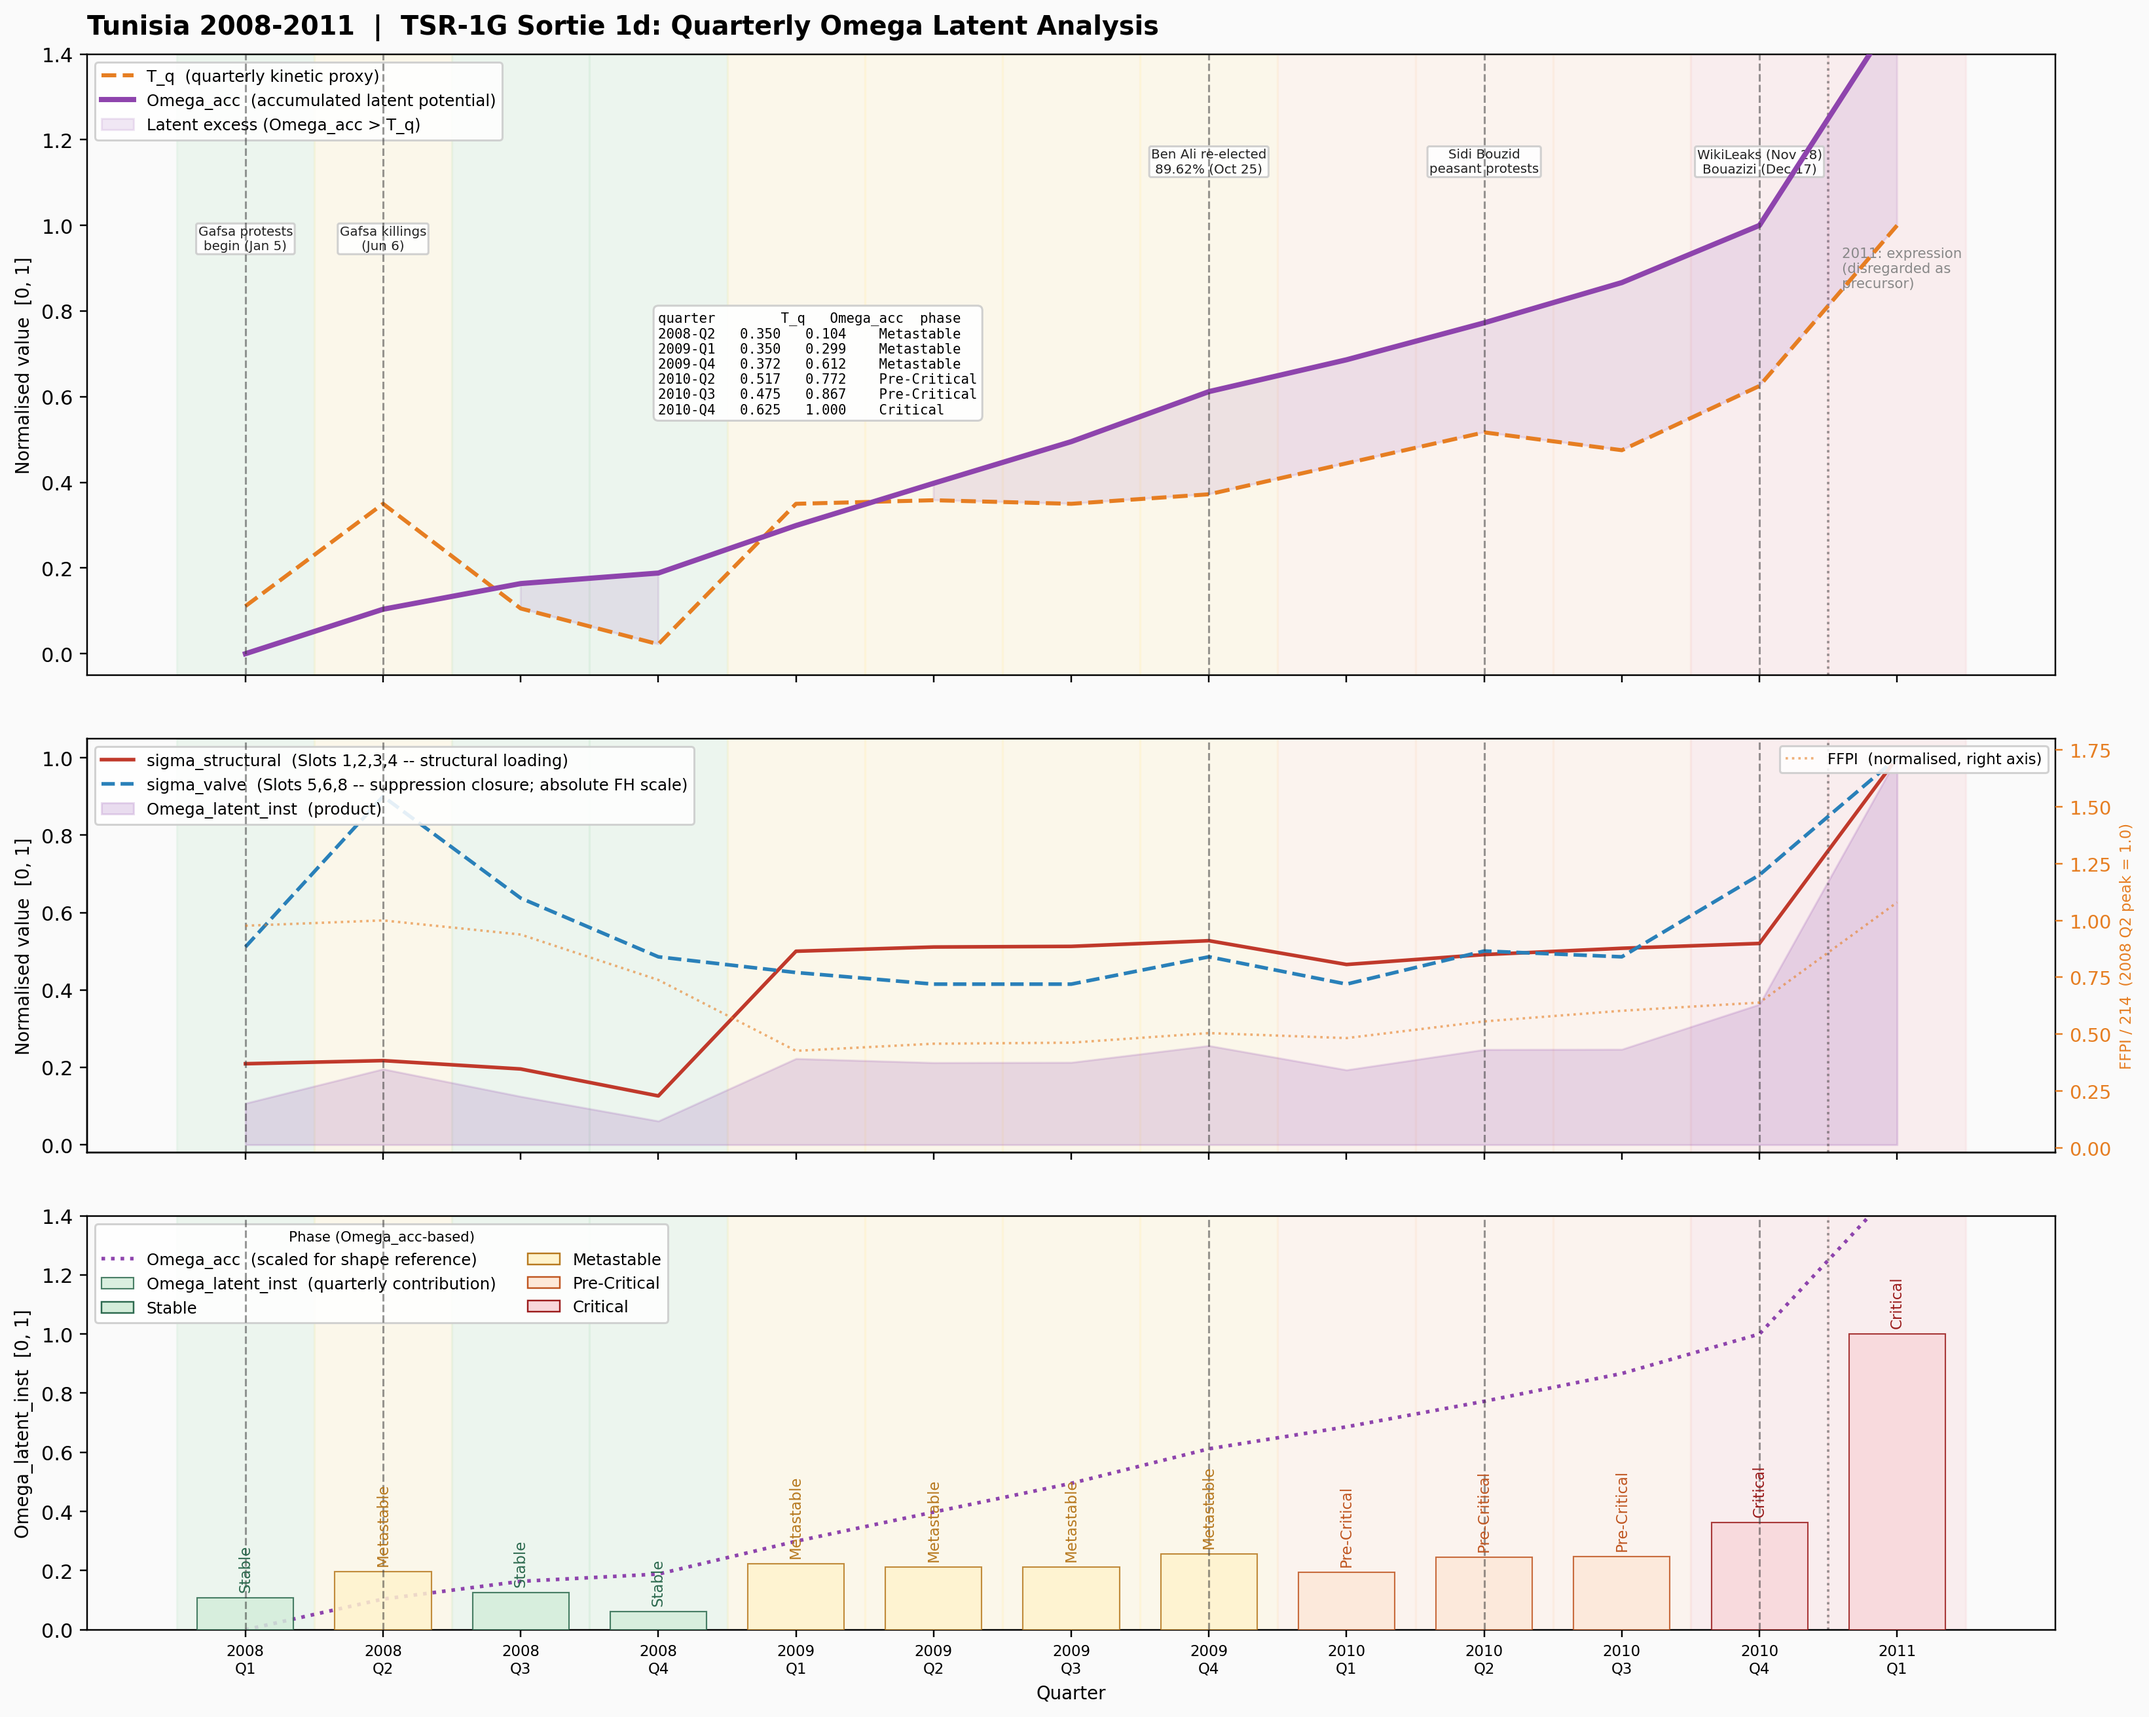
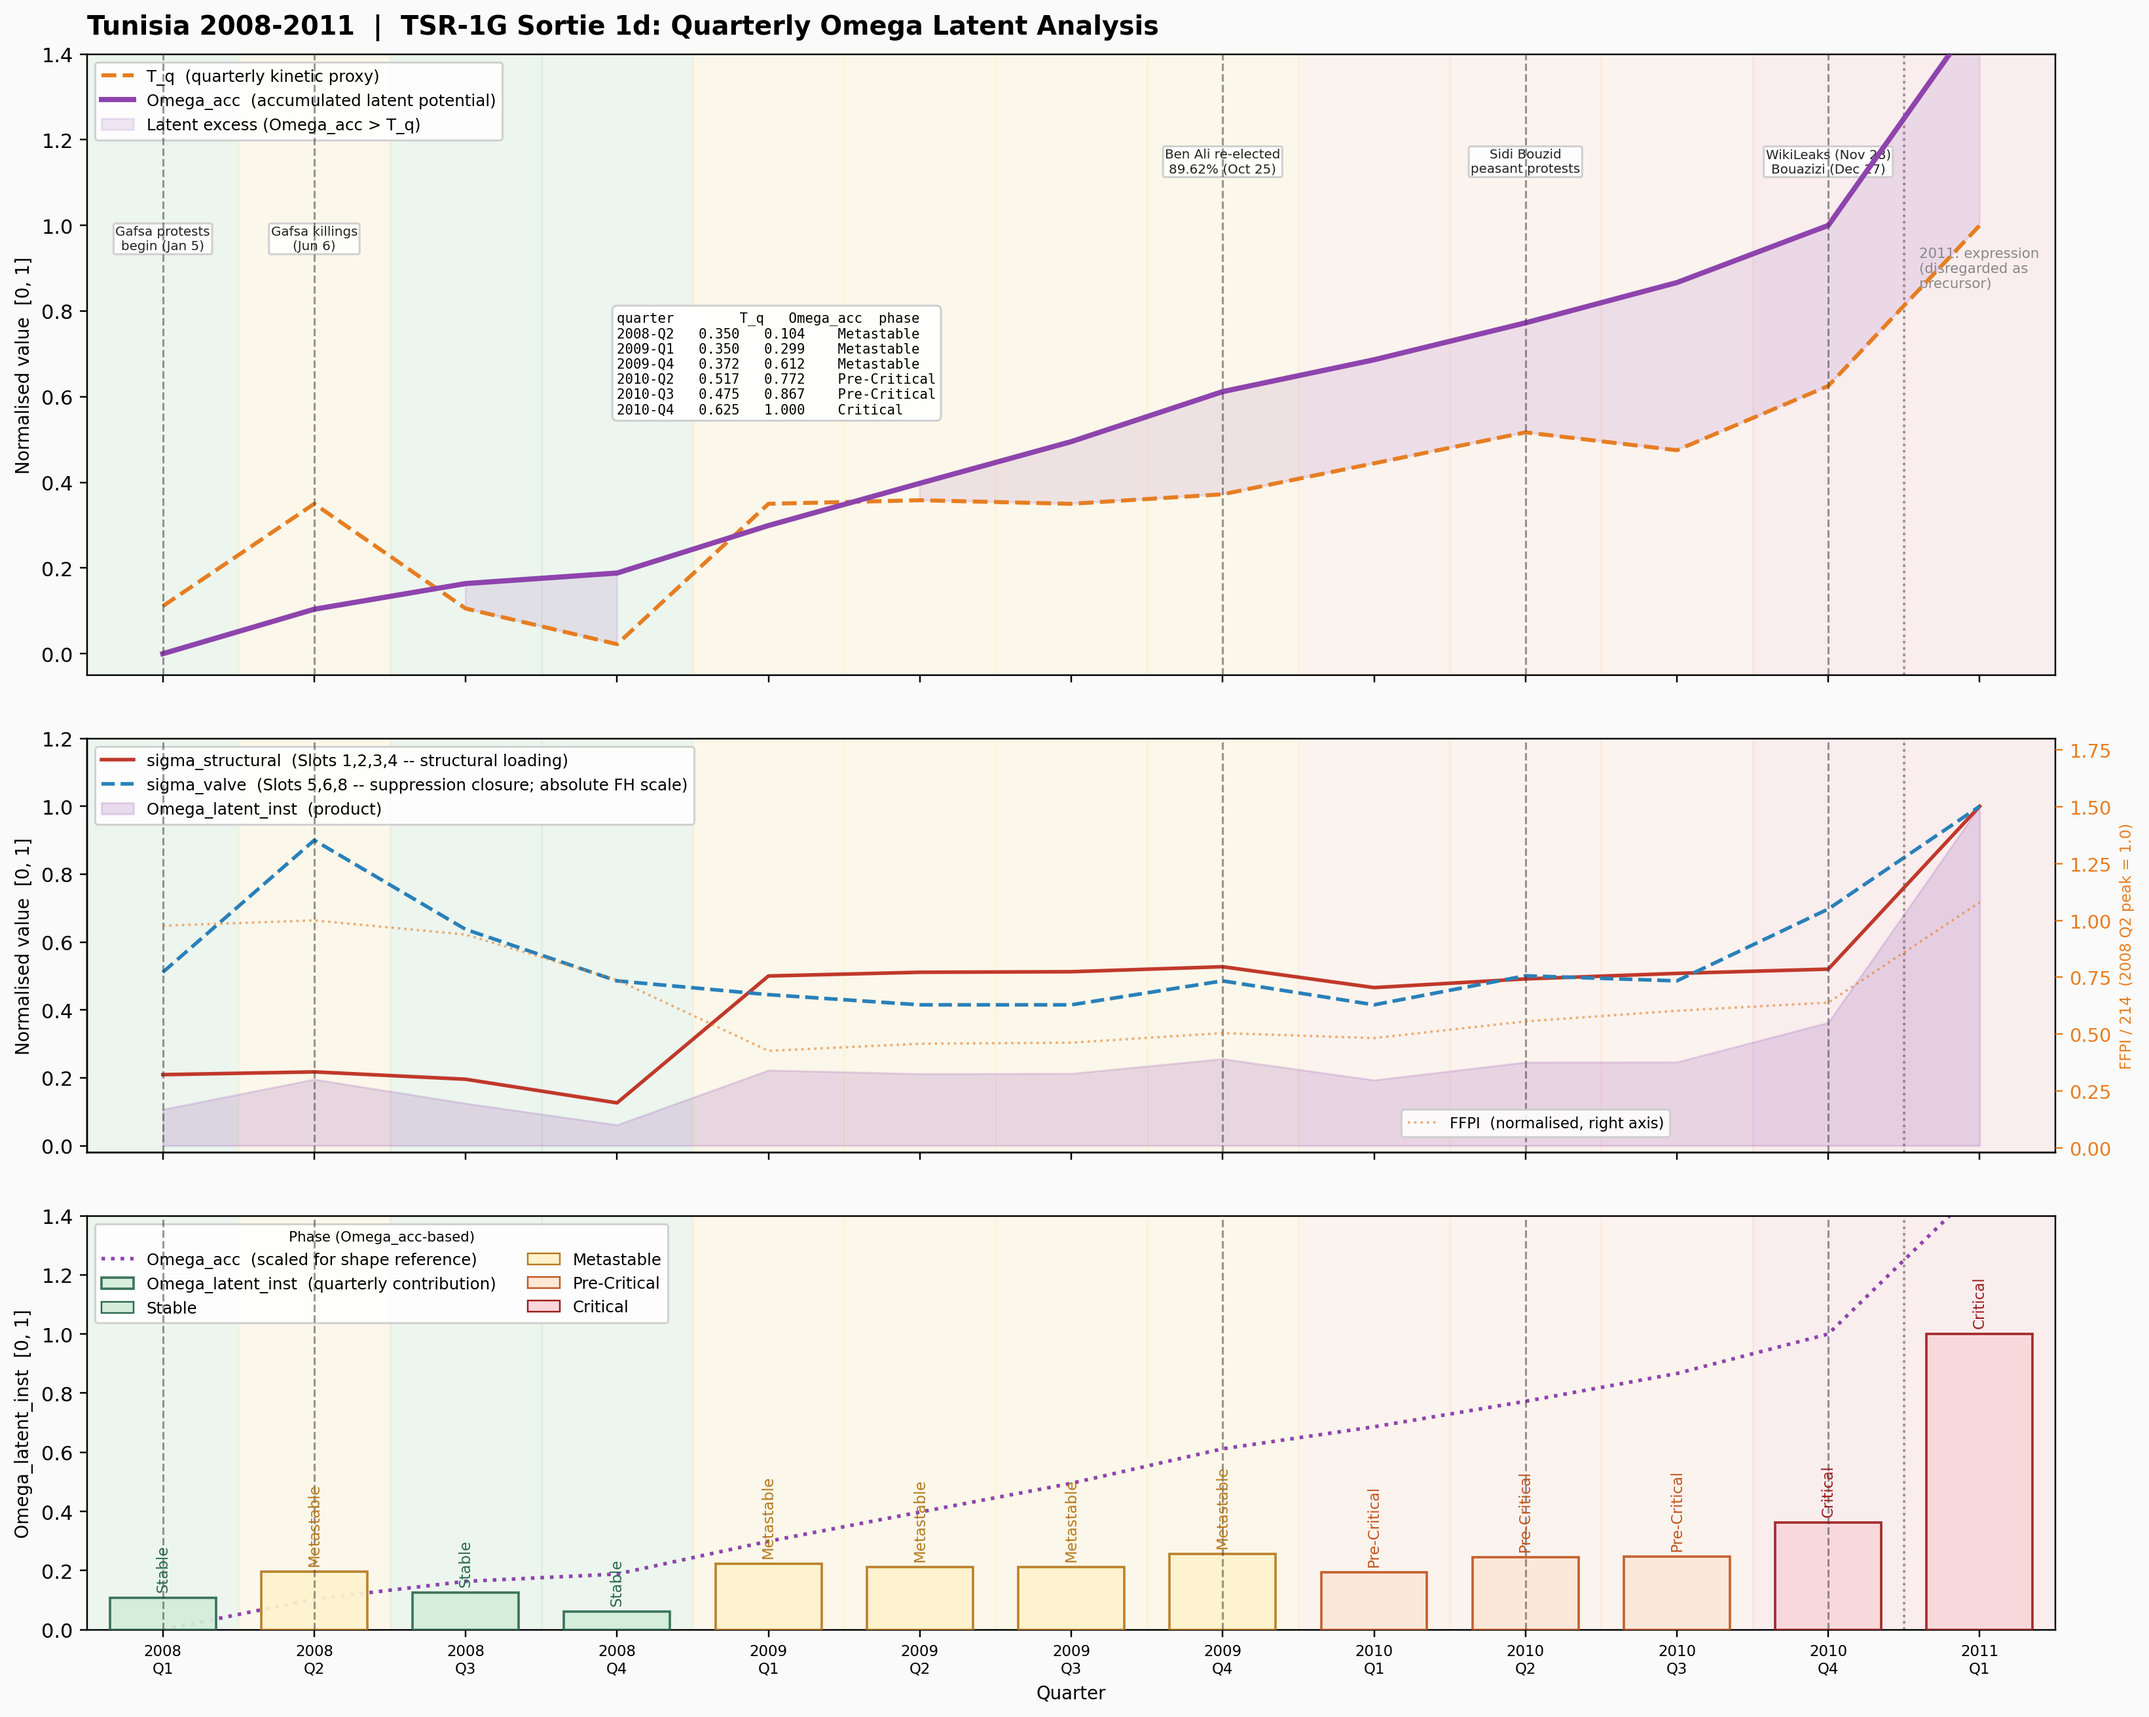
Sortie 1d: HC chart polish -- bolder fills, FFPI visibility, layout fixes
- HC palette: bold near-primary bar fills (Blue 800, Amber 800, Deep Orange 800,
  Red 800) with saturated span backgrounds; FFPI line changed to dark gray
  (#444444) -- amber was invisible against yellow/amber spans
- FFPI legend moved to bottom-right at 2010-Q3 x position (bbox_to_anchor)
- X-axis constrained to exact data range (xlim = -0.5 to n-0.5); removes
  excess whitespace beyond 2011-Q1
- Panel B left y-axis extended to 1.2 to clear legend overlap on sigma_valve

diff --git a/CASES/Tunisia/sortie_1d_quarterly.py b/CASES/Tunisia/sortie_1d_quarterly.py
@@ -284,21 +284,27 @@ STANDARD_CS = dict(
     fig_bg      = '#fafafa',
 )
 
-# High-contrast / colorblind-safe palette (Wong 2011)
-# Black=#000000, Orange=#E69F00, Sky blue=#56B4E9, Bluish green=#009E73,
-# Yellow=#F0E442, Blue=#0072B2, Vermillion=#D55E00, Reddish purple=#CC79A7
+# High-contrast / colorblind-safe palette (Wong 2011 lines + bold fills)
+# Background spans use saturated mid-tones (alpha 0.35 still shows clearly).
+# phase_bar: bold near-primary fills for Panel C bars (alpha 0.92).
 HC_CS = dict(
     phase_bg = {
-        'Stable':       '#D6EAF8',   # light blue
-        'Metastable':   '#FEF9E7',   # light yellow
-        'Pre-Critical': '#FDEBD0',   # light orange
-        'Critical':     '#FADBD8',   # light red
+        'Stable':       '#64B5F6',   # Blue 300 -- saturated span background
+        'Metastable':   '#FFD54F',   # Amber 300
+        'Pre-Critical': '#FFB74D',   # Orange 300
+        'Critical':     '#E57373',   # Red 300
+    },
+    phase_bar = {
+        'Stable':       '#1565C0',   # Blue 800  -- near-primary blue
+        'Metastable':   '#F9A825',   # Amber 800 -- near-primary yellow
+        'Pre-Critical': '#E65100',   # Deep Orange 800 -- near-primary orange
+        'Critical':     '#C62828',   # Red 800   -- near-primary red
     },
     phase_edge = {
-        'Stable':       '#0072B2',   # blue
-        'Metastable':   '#9A7D0A',   # dark amber
-        'Pre-Critical': '#D55E00',   # vermillion
-        'Critical':     '#8B0000',   # dark red
+        'Stable':       '#003c8f',   # Blue 900 (very dark)
+        'Metastable':   '#c67c00',   # dark amber
+        'Pre-Critical': '#8d2400',   # very dark orange
+        'Critical':     '#7f0000',   # maroon
     },
     t_tension   = '#D55E00',         # vermillion -- dashed line
     omega_acc   = '#0072B2',         # blue -- solid line
@@ -306,7 +312,7 @@ HC_CS = dict(
     sig_struct  = '#D55E00',         # vermillion
     sig_valve   = '#009E73',         # bluish green
     latent_fill = '#CC79A7',         # reddish purple
-    ffpi        = '#E69F00',         # amber
+    ffpi        = '#444444',         # dark gray (amber was too close to yellow spans)
     fig_bg      = '#FFFFFF',         # white background for maximum contrast
 )
 
@@ -328,6 +334,10 @@ def make_figure(cs, out_path):
         'axes.spines.top':   False,
         'axes.spines.right': False,
     })
+
+    # Constrain x to exactly the data range
+    for ax in axes:
+        ax.set_xlim(-0.5, n - 0.5)
 
     # Phase background spans
     for xi, q in enumerate(QUARTERS):
@@ -365,7 +375,7 @@ def make_figure(cs, out_path):
     ax.fill_between(xs, 0, df['Omega_latent_inst'], color=cs['latent_fill'], alpha=0.18,
                     label='Omega_latent_inst  (product)')
     ax.axvline(11.5, color='#555555', lw=1.2, ls=':', alpha=0.6)
-    ax.set_ylim(-0.02, 1.05)
+    ax.set_ylim(-0.02, 1.20)
     ax.set_ylabel('Normalised value  [0, 1]', fontsize=9)
     ax.legend(loc='upper left', fontsize=8, framealpha=0.88, edgecolor='#cccccc')
 
@@ -378,14 +388,17 @@ def make_figure(cs, out_path):
     ax2.set_ylim(-0.02, 1.8)
     ax2.spines['right'].set_color(cs['ffpi'])
     ax2.spines['top'].set_visible(False)
-    ax2.legend(loc='upper right', fontsize=7.5, framealpha=0.88, edgecolor='#cccccc')
+    ax2.legend(loc='lower right', bbox_to_anchor=(0.808, 0.02),
+               bbox_transform=ax2.transAxes,
+               fontsize=7.5, framealpha=0.88, edgecolor='#cccccc')
 
     # ── Panel C: Omega_latent_inst bars + Omega_acc ──────────────────────────────
     ax = axes[2]
-    bar_colors = [cs['phase_bg'][df.loc[q, 'phase']]   for q in QUARTERS]
+    _bar_fill  = cs.get('phase_bar', cs['phase_bg'])
+    bar_colors = [_bar_fill[df.loc[q, 'phase']]        for q in QUARTERS]
     bar_edges  = [cs['phase_edge'][df.loc[q, 'phase']] for q in QUARTERS]
     ax.bar(xs, df['Omega_latent_inst'], color=bar_colors, edgecolor=bar_edges,
-           linewidth=0.7, width=0.7, zorder=3, alpha=0.85,
+           linewidth=1.2, width=0.7, zorder=3, alpha=0.92,
            label='Omega_latent_inst  (quarterly contribution)')
 
     ax.plot(xs, df['Omega_acc'] * scale, color=cs['omega_acc'], lw=1.8, ls=':',
@@ -405,7 +418,8 @@ def make_figure(cs, out_path):
         ax.text(xi, bh + scale * 0.02, ph, ha='center', va='bottom',
                 fontsize=7.5, rotation=90, color=cs['phase_edge'][ph], zorder=7)
 
-    phase_patches = [mpatches.Patch(facecolor=cs['phase_bg'][p],
+    _patch_fill = cs.get('phase_bar', cs['phase_bg'])
+    phase_patches = [mpatches.Patch(facecolor=_patch_fill[p],
                                     edgecolor=cs['phase_edge'][p],
                                     linewidth=0.8, label=p)
                      for p in ['Stable', 'Metastable', 'Pre-Critical', 'Critical']]
